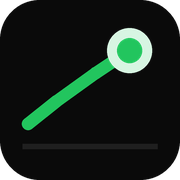
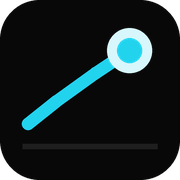
Redesign: Palantir-inspired cyan accent + dot-grid background
- Swap UI accent from green (#22c55e) to cyan (#22d3ee)
- Add --green CSS var for semantic stock data (price up, bullish)
- All price/sentiment up colors now use --green, UI chrome uses --accent (cyan)
- Dot-grid background texture on dark mode body (28px radial pattern)
- Nav and section stripes: 3px → 1px with pulsing cyan glow (scan-sweep)
- Surface colors darkened slightly (#0e0e0e, #151515) for more depth
- Borders thinned (#1e1e1e) for sharper, more angular feel
- Favicon updated to cyan

Changed region(s): [[0.1111, 0.1667, 0.8611, 0.7222]]

diff --git a/src/pages/Dashboard.tsx b/src/pages/Dashboard.tsx
@@ -119,7 +119,7 @@ function PriceChange({ pct }: { pct: number | null }) {
   return (
     <span
       className="inline-flex items-center gap-0.5 text-[11px] tabular-nums font-semibold"
-      style={{ color: up ? 'var(--accent)' : 'var(--red)', ...MONO }}
+      style={{ color: up ? 'var(--green)' : 'var(--red)', ...MONO }}
     >
       {up ? <ArrowUpRight className="h-3 w-3" /> : <ArrowDownRight className="h-3 w-3" />}
       {Math.abs(pct).toFixed(2)}%
@@ -208,7 +208,7 @@ function TickerTape() {
               )}
               <span
                 className="font-bold"
-                style={{ color: up ? 'var(--accent)' : 'var(--red)' }}
+                style={{ color: up ? 'var(--green)' : 'var(--red)' }}
               >
                 {up ? '▲' : '▼'} {Math.abs(stock.change_pct ?? 0).toFixed(2)}%
               </span>
@@ -255,7 +255,7 @@ interface SentLevel {
 
 function getSentLevel(score: number): SentLevel {
   if (score >= 0.35)  return { label: 'Strongly Bullish', short: 'Strong Bull', icon: '▲▲', color: '#16a34a', bg: 'rgba(22,163,74,0.12)',  borderColor: '#16a34a' };
-  if (score >= 0.05)  return { label: 'Bullish',          short: 'Bullish',     icon: '▲',  color: 'var(--accent)', bg: 'rgba(34,197,94,0.1)', borderColor: 'var(--accent)' };
+  if (score >= 0.05)  return { label: 'Bullish',          short: 'Bullish',     icon: '▲',  color: 'var(--green)', bg: 'rgba(34,197,94,0.1)', borderColor: 'var(--green)' };
   if (score <= -0.35) return { label: 'Strongly Bearish', short: 'Strong Bear', icon: '▼▼', color: '#b91c1c', bg: 'rgba(185,28,28,0.12)',  borderColor: '#b91c1c' };
   if (score <= -0.05) return { label: 'Bearish',          short: 'Bearish',     icon: '▼',  color: 'var(--red)', bg: 'rgba(239,68,68,0.1)',  borderColor: 'var(--red)' };
   return { label: 'Neutral', short: 'Neutral', icon: '●', color: '#d97706', bg: 'rgba(217,119,6,0.1)', borderColor: '#d97706' };
@@ -460,7 +460,7 @@ function SentimentChart({ stocks }: { stocks: TrendingStock[] }) {
                 <Cell
                   key={entry.symbol}
                   fill={
-                    entry.score >= 0.05  ? 'var(--accent)' :
+                    entry.score >= 0.05  ? 'var(--green)' :
                     entry.score <= -0.05 ? 'var(--red)'    : '#d97706'
                   }
                   fillOpacity={0.8}
@@ -536,7 +536,7 @@ function StockTile({ stock }: { stock: TrendingStock }) {
         {/* Change arrow + pct below price */}
         <span
           className="text-[11px] font-bold tabular-nums flex items-center gap-0.5"
-          style={{ color: up ? 'var(--accent)' : 'var(--red)', ...MONO }}
+          style={{ color: up ? 'var(--green)' : 'var(--red)', ...MONO }}
         >
           {up ? <ArrowUpRight className="h-3 w-3" /> : <ArrowDownRight className="h-3 w-3" />}
           {Math.abs(stock.change_pct ?? 0).toFixed(2)}%
@@ -675,7 +675,7 @@ function HeroCard({ mention }: { mention: Mention }) {
       style={{ borderColor: 'var(--border)' }}
     >
       {/* Full-width accent line at top */}
-      <div className="h-[3px] w-full mb-6" style={{ backgroundColor: 'var(--accent)' }} />
+      <div className="nav-stripe h-px w-full mb-6" style={{ backgroundColor: 'var(--accent)' }} />
 
       <div className="flex gap-4 sm:gap-6">
         <div className="flex-1 min-w-0">
@@ -701,7 +701,7 @@ function HeroCard({ mention }: { mention: Mention }) {
               <span className="text-[11px] font-black tabular-nums" style={{ color: 'var(--text-secondary)', ...MONO }}>
                 ${priceInfo.price.toFixed(2)}
                 {priceInfo.change_pct != null && (
-                  <span style={{ color: priceInfo.change_pct >= 0 ? 'var(--accent)' : 'var(--red)' }}>
+                  <span style={{ color: priceInfo.change_pct >= 0 ? 'var(--green)' : 'var(--red)' }}>
                     {' '}{priceInfo.change_pct >= 0 ? '+' : ''}{priceInfo.change_pct.toFixed(2)}%
                   </span>
                 )}
@@ -825,7 +825,7 @@ function StreamCard({ mention }: { mention: Mention }) {
             <span className="text-[10px] tabular-nums font-bold" style={{ color: 'var(--text-muted)', ...MONO }}>
               ${priceInfo.price.toFixed(2)}
               {priceInfo.change_pct != null && (
-                <span style={{ color: priceInfo.change_pct >= 0 ? 'var(--accent)' : 'var(--red)' }}>
+                <span style={{ color: priceInfo.change_pct >= 0 ? 'var(--green)' : 'var(--red)' }}>
                   {' '}{priceInfo.change_pct >= 0 ? '+' : ''}{priceInfo.change_pct.toFixed(2)}%
                 </span>
               )}
@@ -871,7 +871,7 @@ function CompactCard({ mention }: { mention: Mention }) {
   const isHighCred = mention.credibility_score >= 80;
   const sentScore = mention.sentiment_score ?? 0;
   const dotColor = sentScore >= 0.05
-    ? 'var(--accent)'
+    ? 'var(--green)'
     : sentScore <= -0.05
     ? 'var(--red)'
     : 'var(--text-muted)';
@@ -1586,7 +1586,7 @@ function MoversSidebar() {
                   )}
                   <span
                     className="text-[11px] font-bold tabular-nums"
-                    style={{ color: up ? 'var(--accent)' : 'var(--red)', ...MONO }}
+                    style={{ color: up ? 'var(--green)' : 'var(--red)', ...MONO }}
                   >
                     {up ? '▲' : '▼'} {Math.abs(delta * 100).toFixed(0)}%
                   </span>
@@ -1596,7 +1596,7 @@ function MoversSidebar() {
               <div className="mt-1.5 h-[2px] w-full" style={{ backgroundColor: 'var(--bg-elevated)' }}>
                 <motion.div
                   className="h-full"
-                  style={{ backgroundColor: up ? 'var(--accent)' : 'var(--red)' }}
+                  style={{ backgroundColor: up ? 'var(--green)' : 'var(--red)' }}
                   initial={{ width: 0 }}
                   animate={{ width: `${barWidth}%` }}
                   transition={{ duration: 0.6, ease: [0.22, 1, 0.36, 1] as [number, number, number, number], delay: 0.1 }}

diff --git a/src/index.css b/src/index.css
@@ -10,32 +10,36 @@
   --text-primary: #0f0f0f;
   --text-secondary: #525252;
   --text-muted: #9a9a9a;
-  --accent: #166534;
-  --accent-dim: rgba(22, 101, 52, 0.08);
+  --accent: #0891b2;
+  --accent-dim: rgba(8, 145, 178, 0.08);
+  --accent-subtle: rgba(8, 145, 178, 0.05);
+  --green: #166534;
+  --green-dim: rgba(22, 101, 52, 0.08);
   --red: #991b1b;
   --red-dim: rgba(153, 27, 27, 0.06);
   --graphic-stroke: rgba(0, 0, 0, 0.07);
-  --graphic-fill: rgba(22, 101, 52, 0.04);
-  --accent-subtle: rgba(22, 101, 52, 0.05);
+  --graphic-fill: rgba(8, 145, 178, 0.04);
 }
 
 .dark {
-  --bg-page: #0a0a0a;
-  --bg-surface: #111111;
-  --bg-elevated: #1a1a1a;
-  --border: #242424;
-  --border-hover: #3a3a3a;
-  --border-strong: #505050;
+  --bg-page: #080808;
+  --bg-surface: #0e0e0e;
+  --bg-elevated: #151515;
+  --border: #1e1e1e;
+  --border-hover: #2e2e2e;
+  --border-strong: #404040;
   --text-primary: #f0f0f0;
   --text-secondary: #9a9a9a;
-  --text-muted: #545454;
-  --accent: #22c55e;
-  --accent-dim: rgba(34, 197, 94, 0.08);
+  --text-muted: #4a4a4a;
+  --accent: #22d3ee;
+  --accent-dim: rgba(34, 211, 238, 0.08);
+  --accent-subtle: rgba(34, 211, 238, 0.05);
+  --green: #22c55e;
+  --green-dim: rgba(34, 197, 94, 0.08);
   --red: #ef4444;
   --red-dim: rgba(239, 68, 68, 0.08);
-  --graphic-stroke: rgba(255, 255, 255, 0.06);
-  --graphic-fill: rgba(34, 197, 94, 0.04);
-  --accent-subtle: rgba(34, 197, 94, 0.06);
+  --graphic-stroke: rgba(255, 255, 255, 0.05);
+  --graphic-fill: rgba(34, 211, 238, 0.04);
 }
 
 @layer base {
@@ -45,6 +49,12 @@
     font-family: "Syne", system-ui, sans-serif;
     -webkit-font-smoothing: antialiased;
     min-height: 100vh;
+  }
+
+  /* Palantir-style dot-grid texture (dark mode only) */
+  .dark body {
+    background-image: radial-gradient(circle, rgba(255,255,255,0.032) 1px, transparent 1px);
+    background-size: 28px 28px;
   }
 }
 
@@ -106,6 +116,17 @@
 @keyframes border-pulse {
   0%, 100% { box-shadow: 0 0 0 0 transparent; }
   50%       { box-shadow: 0 0 0 2px var(--accent-dim); }
+}
+
+/* Cyan scan-line sweep for the nav stripe */
+@keyframes scan-sweep {
+  0%   { opacity: 0.4; }
+  50%  { opacity: 1; }
+  100% { opacity: 0.4; }
+}
+.nav-stripe {
+  animation: scan-sweep 3s ease-in-out infinite;
+  box-shadow: 0 0 12px 0 var(--accent), 0 0 32px 0 var(--accent-dim);
 }
 
 /* Verge-style category label accent */

diff --git a/src/pages/Compare.tsx b/src/pages/Compare.tsx
@@ -11,7 +11,7 @@ import { staggerContainer, staggerItem } from '../components/PageEnter';
 const MONO: React.CSSProperties = { fontFamily: "'IBM Plex Mono', monospace" };
 
 function sentimentColor(score: number): string {
-  if (score >= 0.05)  return 'var(--accent)';
+  if (score >= 0.05)  return 'var(--green)';
   if (score <= -0.05) return 'var(--red)';
   return 'var(--text-muted)';
 }
@@ -210,7 +210,7 @@ export function Compare() {
       {/* Page header */}
       <motion.div variants={staggerItem} className="space-y-1">
         <div className="flex items-center gap-2">
-          <BarChart2 size={14} style={{ color: 'var(--accent)' }} />
+          <BarChart2 size={14} style={{ color: 'var(--green)' }} />
           <span
             className="text-[9px] font-black uppercase tracking-widest"
             style={{ color: 'var(--accent)', ...MONO }}

diff --git a/src/pages/StockDetail.tsx b/src/pages/StockDetail.tsx
@@ -1301,7 +1301,7 @@ export function StockDetail() {
                     <div key={s.source} className="flex items-center gap-2">
                       <span className="text-[10px] w-32 truncate" style={{ color: 'var(--text-muted)', ...MONO_S }}>{s.source}</span>
                       <div className="flex-1 h-1.5 rounded-full" style={{ background: 'var(--border)' }}>
-                        <div className="h-full rounded-full" style={{ width: `${s.pct}%`, background: 'var(--accent)' }} />
+                        <div className="h-full rounded-full" style={{ width: `${s.pct}%`, background: 'var(--green)' }} />
                       </div>
                       <span className="text-[10px] w-8 text-right" style={{ color: 'var(--text-muted)', ...MONO_S }}>{s.pct}%</span>
                     </div>

diff --git a/src/components/Layout/Navbar.tsx b/src/components/Layout/Navbar.tsx
@@ -64,8 +64,8 @@ export function Navbar() {
 
   return (
     <header className="sticky top-0 z-40" style={{ backgroundColor: 'var(--bg-page)' }}>
-      {/* Accent stripe */}
-      <div className="h-[3px] w-full" style={{ backgroundColor: 'var(--accent)' }} />
+      {/* Accent stripe — thin cyan glow line */}
+      <div className="nav-stripe h-px w-full" style={{ backgroundColor: 'var(--accent)' }} />
 
       {/* Main bar */}
       <div className="border-b" style={{ borderColor: 'var(--border)' }}>

diff --git a/src/pages/Watchlists.tsx b/src/pages/Watchlists.tsx
@@ -373,7 +373,7 @@ function StockCard({ item, listId }: { item: WatchlistItem; listId: number }) {
           </span>
           {detail?.change_pct != null && (
             <span className="text-[11px] font-bold tabular-nums"
-              style={{ color: up ? 'var(--accent)' : 'var(--red)', ...MONO }}>
+              style={{ color: up ? 'var(--green)' : 'var(--red)', ...MONO }}>
               {up ? '▲' : '▼'} {Math.abs(detail.change_pct).toFixed(2)}%
             </span>
           )}

diff --git a/src/pages/Screener.tsx b/src/pages/Screener.tsx
@@ -12,7 +12,7 @@ type SentimentFilter = 'all' | 'bullish' | 'bearish';
 type SortBy = 'mentions' | 'sentiment' | 'credibility';
 
 function sentimentColor(score: number): string {
-  if (score >= 0.05)  return 'var(--accent)';
+  if (score >= 0.05)  return 'var(--green)';
   if (score <= -0.05) return 'var(--red)';
   return 'var(--text-muted)';
 }
